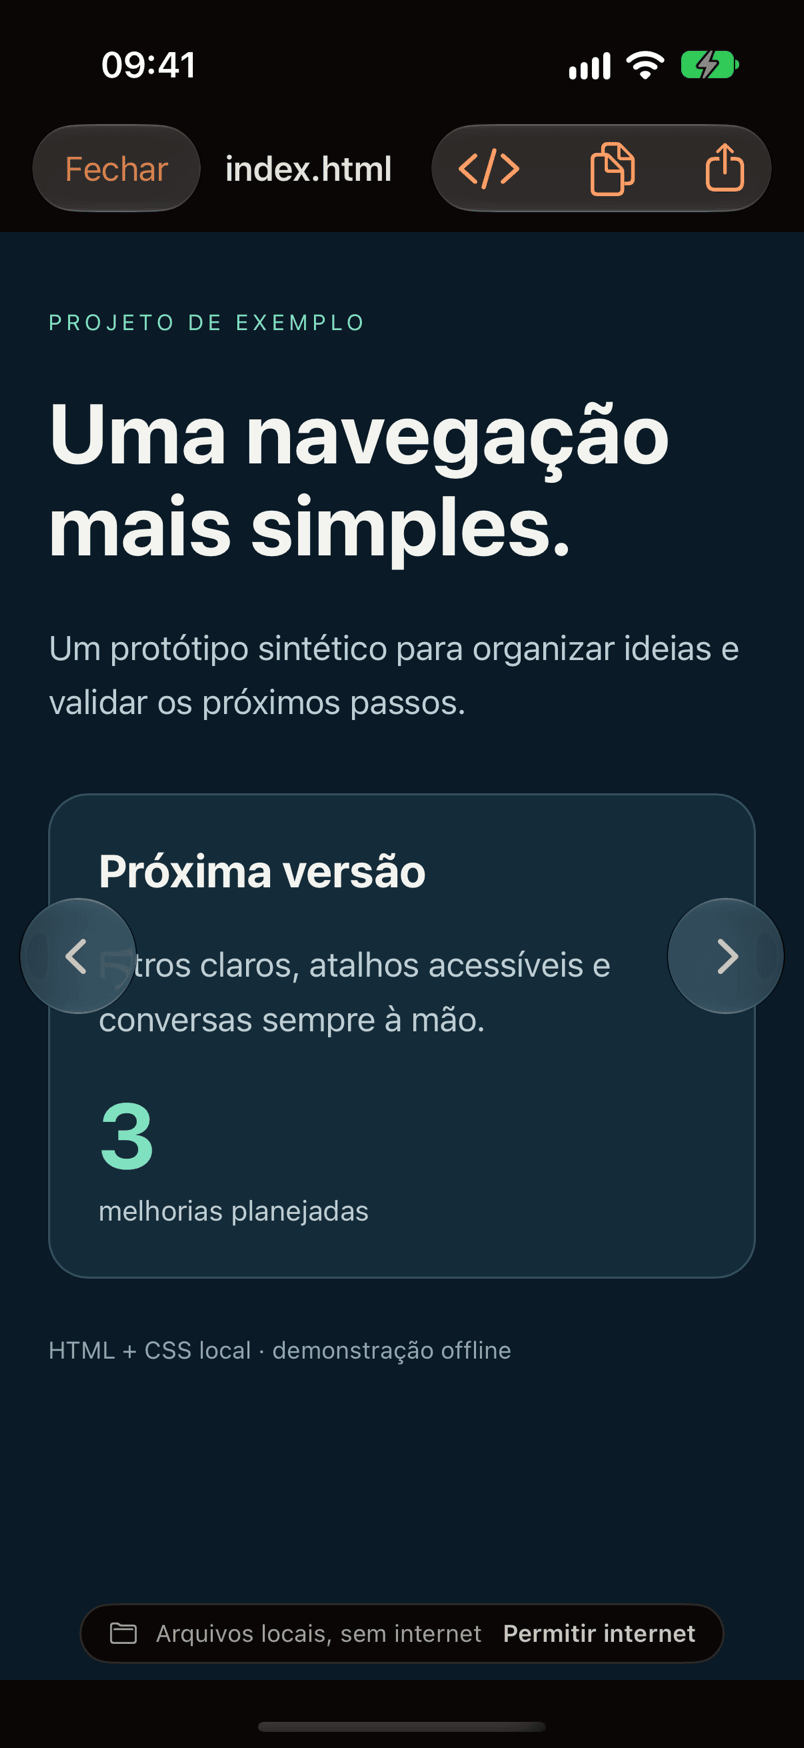
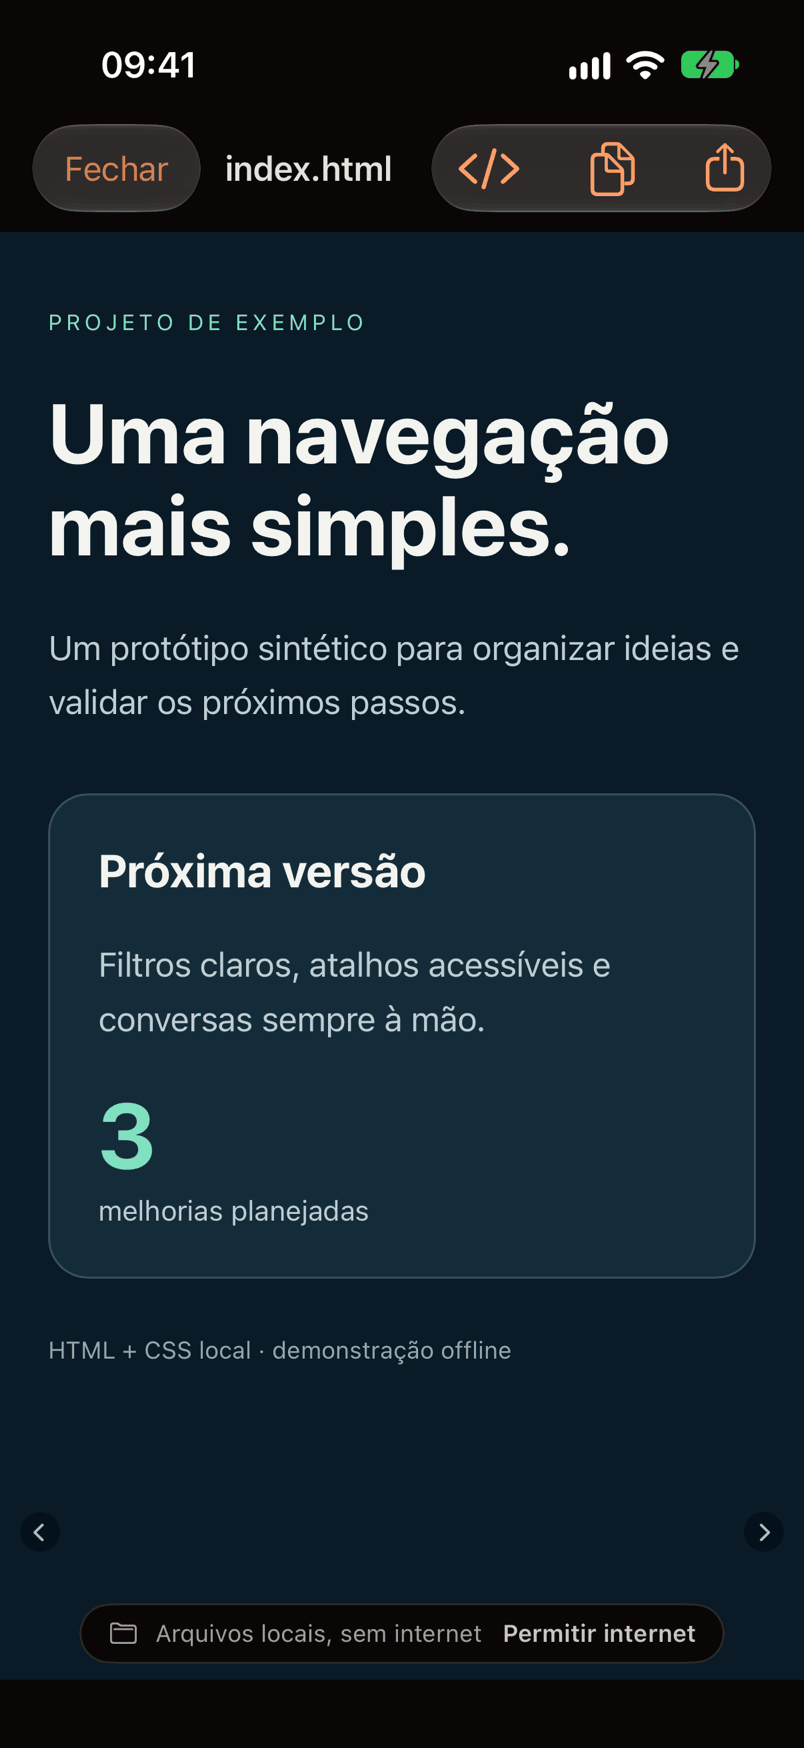
docs(ios): refresh file viewer and empty filter screens

Changed region(s): [[0.3109, 0.9577, 0.6841, 1.0], [0.8085, 0.4943, 0.995, 0.587], [0.0, 0.4943, 0.1866, 0.587]]

diff --git a/packages/ios-custom/OpenCodeUITests/ScreenCatalogTests.swift b/packages/ios-custom/OpenCodeUITests/ScreenCatalogTests.swift
@@ -260,6 +260,17 @@ import XCTest
     shot("new-session-from-repository-chip")
   }
 
+  func testEmptyProject() {
+    let app = launch()
+    defer { app.terminate() }
+    // Projeto 1 has only managed chats, so its repository filter has no sessions.
+    chip("filter-project-Projeto Exemplo 1", app)
+    XCTAssertTrue(app.buttons["sessions-archived"].waitForExistence(timeout: 10))
+    XCTAssertEqual(app.buttons.matching(NSPredicate(format: "identifier BEGINSWITH 'session-row-'")).count, 0)
+    XCTAssertFalse(app.staticTexts["Nenhuma sessão"].exists)
+    shot("sessions-project-empty")
+  }
+
   func testConversation() {
     let app = launch()
     defer { app.terminate() }
@@ -322,15 +333,21 @@ import XCTest
     shot("files-explorer-default")
     tap("file-explorer-file-README.md", app)
     XCTAssertTrue(app.buttons["file-markdown-source"].waitForExistence(timeout: 10))
+    XCTAssertTrue(app.descendants(matching: .any)["file-next"].firstMatch.waitForExistence(timeout: 10))
+    XCTAssertFalse(app.descendants(matching: .any)["file-previous"].firstMatch.exists)
     shot("files-markdown-default")
     tap("Fechar", app)
     tap("file-explorer-file-preview.png", app)
     XCTAssertTrue(app.navigationBars["preview.png"].waitForExistence(timeout: 10))
+    XCTAssertTrue(app.descendants(matching: .any)["file-previous"].firstMatch.waitForExistence(timeout: 10))
+    XCTAssertFalse(app.descendants(matching: .any)["file-next"].firstMatch.exists)
     shot("files-image-default")
     tap("Fechar", app)
     tap("file-explorer-file-index.html", app)
     XCTAssertTrue(app.webViews.firstMatch.staticTexts["Próxima versão"].waitForExistence(timeout: 20))
     XCTAssertTrue(app.descendants(matching: .any)["file-html-mode"].exists)
+    XCTAssertTrue(app.descendants(matching: .any)["file-previous"].firstMatch.waitForExistence(timeout: 10))
+    XCTAssertTrue(app.descendants(matching: .any)["file-next"].firstMatch.waitForExistence(timeout: 10))
     shot("files-html-preview")
   }
 

diff --git a/packages/ios-custom/docs/screens/README.md b/packages/ios-custom/docs/screens/README.md
@@ -63,6 +63,7 @@ a evidências temporárias de testes; este é o catálogo estável para mockups.
 | Sessões · Chats | Sessões → Chats | [PNG](sessions-list-chats-dark.png) | [PNG](sessions-list-chats-light.png) |
 | Sessões · chats em Todas | Filtro Todas; chat e projeto na mesma lista, com avatares distintos | [PNG](sessions-chats-mixed-dark.png) | [PNG](sessions-chats-mixed-light.png) |
 | Sessões · repositório | Sessões → Projeto Exemplo 0 | [PNG](sessions-list-repository-dark.png) | [PNG](sessions-list-repository-light.png) |
+| Sessões · projeto vazio | Sessões → Projeto Exemplo 1; sem sessões do repositório, apenas Arquivadas | [PNG](sessions-project-empty-dark.png) | — |
 | Chips · não lida | Sessões; Projeto Exemplo 3 com ponto laranja, antes de Chats e dos projetos lidos | [PNG](sessions-chips-unread-dark.png) | [PNG](sessions-chips-unread-light.png) |
 | Chips · em execução | Todas → Projeto Exemplo 0 rodando → Projeto Exemplo 3 não lido → ordem manual | [PNG](sessions-chips-running-dark.png) | [PNG](sessions-chips-running-light.png) |
 | Chats · ordem manual | Manter pressionado Chats; primeiro por padrão, com Mover para depois disponível | [PNG](sessions-chats-order-menu-dark.png) | — |
@@ -102,9 +103,9 @@ a evidências temporárias de testes; este é o catálogo estável para mockups.
 | Scripts · em execução | Agentes e tarefas → Scripts (1); comando sintético e ação Parar | [PNG](session-agents-scripts-dark.png) | — |
 | Scripts · vazio | Agentes e tarefas → Scripts (0); “Nenhum script em segundo plano.” | [PNG](session-agents-scripts-empty-dark.png) | — |
 | Explorador de arquivos | Detalhes → Diretório de trabalho | [PNG](files-explorer-default-dark.png) | — |
-| Arquivo Markdown | Explorador → README.md; renderização e player de leitura | [PNG](files-markdown-default-dark.png) | — |
-| Arquivo de imagem | Explorador → preview.png; imagem sintética | [PNG](files-image-default-dark.png) | — |
-| Prévia HTML offline | Explorador → index.html; página e theme.css sintéticos no modo Arquivos locais, sem internet | [PNG](files-html-preview-dark.png) | — |
+| Arquivo Markdown | Explorador → README.md; player e chevron inferior para o próximo arquivo | [PNG](files-markdown-default-dark.png) | — |
+| Arquivo de imagem | Explorador → preview.png; imagem sintética e chevron inferior para o anterior | [PNG](files-image-default-dark.png) | — |
+| Prévia HTML offline | Explorador → index.html; página/CSS locais e chevrons inferiores dos dois vizinhos | [PNG](files-html-preview-dark.png) | — |
 | Sessão mestra | Faixa Sessão mestra; estado antes da primeira mensagem | [PNG](master-session-empty-dark.png) | — |
 | Voz | Faixa de voz falando, acima da faixa da mestra | [PNG](sessions-voice-speaking-dark.png) | — |
 | Citação no rascunho | Conversa com citação sintética → Citações · 1 | [PNG](conversation-quote-draft-dark.png) | — |
@@ -113,6 +114,12 @@ a evidências temporárias de testes; este é o catálogo estável para mockups.
 | Pergunta paralela | Conversa → enviar `/btw Qual deve ser o primeiro passo?` | [PNG](conversation-side-question-dark.png) | — |
 
 ## Revisão da navegação
+
+Revisão dos arquivos e filtros vazios (base `012d1aaad4`): os visualizadores usam chevrons discretos
+nos cantos inferiores, apenas quando há arquivo vizinho; a fixture inclui Markdown, HTML e imagem
+na mesma pasta (`012d1aaad4`). Projeto Exemplo 1 tem apenas chats, portanto o filtro do repositório
+mostra Arquivadas sem o estado vazio antigo (`4036c61270`). As capturas de atenção foram conferidas
+após `202c953feb`: o transporte é offline e nenhum alerta de permissão do sistema é acionado.
 
 Revisão da margem da mestra e do transcript (base `eb29f1f92c`): a faixa usa **21 pt** de
 margem horizontal, alinhada à faixa de voz (`eb29f1f92c`). As referências de Sessões, conversa
